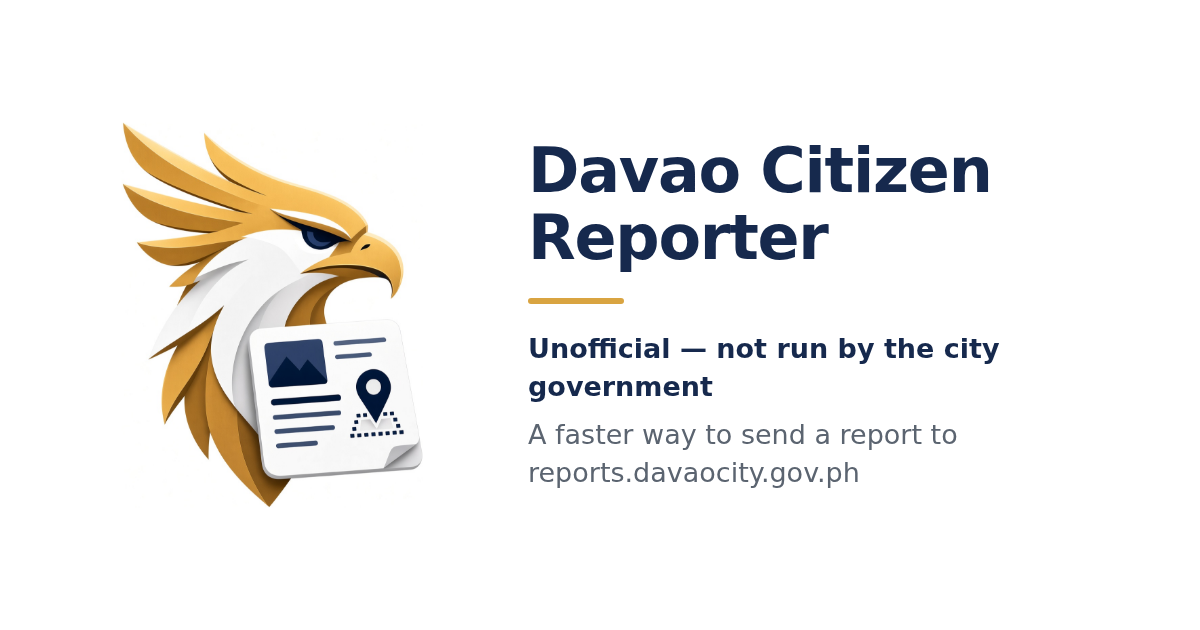
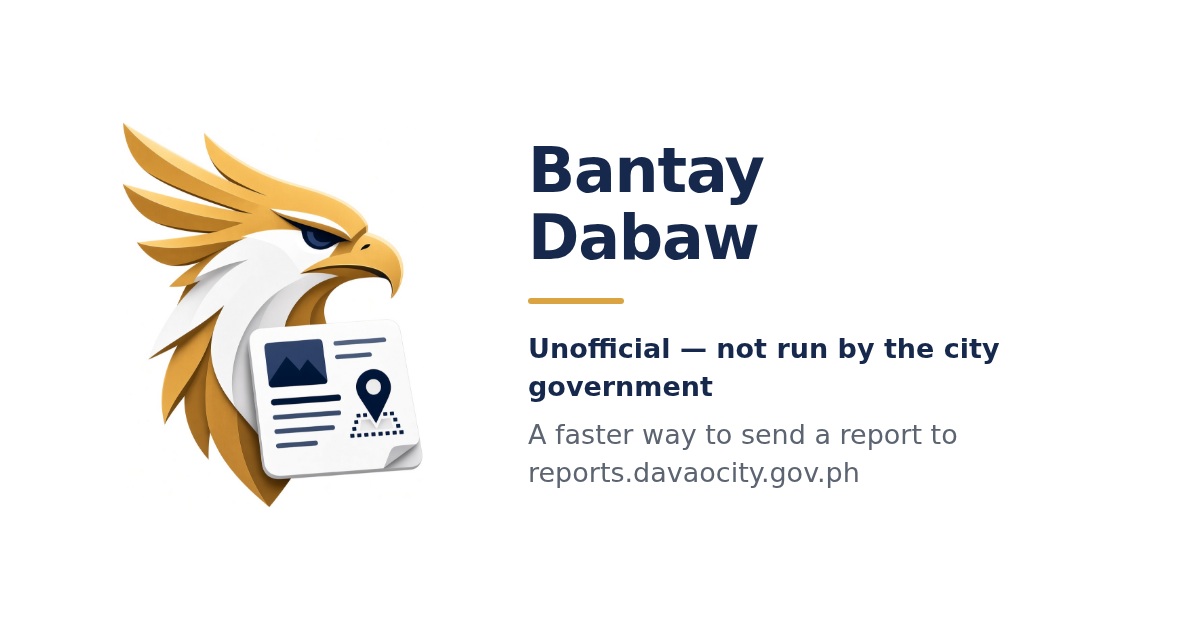
feat(brand): rename the app to Bantay Dabaw
"Davao Citizen Reporter" shared two words with the city's own "Davao
City Reports App", and the pattern read as a sibling product rather
than an unofficial one. A Cebuano name nobody could mistake for a
government office does the work the disclaimer should not have to do
alone.

The hostname, the repo slug and every storage key stay as they are.
The keys are per-origin, so renaming them would strand the reports a
citizen kept on their phone when the city refused to take them.

Changed region(s): [[0.4317, 0.2111, 0.8325, 0.4222]]

diff --git a/frontend/index.html b/frontend/index.html
@@ -8,13 +8,13 @@
     <link rel="icon" type="image/png" sizes="16x16" href="/favicon-16.png" />
     <link rel="apple-touch-icon" href="/apple-touch-icon.png" />
     <link rel="manifest" href="/site.webmanifest" />
-    <title>Davao Citizen Reporter</title>
+    <title>Bantay Dabaw</title>
     <meta
       name="description"
       content="An unofficial, faster way to report a city issue to reports.davaocity.gov.ph."
     />
     <meta property="og:type" content="website" />
-    <meta property="og:title" content="Davao Citizen Reporter" />
+    <meta property="og:title" content="Bantay Dabaw" />
     <meta
       property="og:description"
       content="An unofficial, faster way to report a city issue to reports.davaocity.gov.ph."
@@ -24,7 +24,7 @@
     <meta property="og:image:height" content="630" />
     <meta
       property="og:image:alt"
-      content="Davao Citizen Reporter — unofficial, not run by the city government."
+      content="Bantay Dabaw — unofficial, not run by the city government."
     />
     <meta name="twitter:card" content="summary_large_image" />
   </head>

diff --git a/frontend/src/app.tsx b/frontend/src/app.tsx
@@ -1869,7 +1869,7 @@ function Header({ onDisclaimer }: { onDisclaimer: () => void }) {
 
   return (
     <header>
-      <h1>Davao Citizen Reporter</h1>
+      <h1>Bantay Dabaw</h1>
       {/*
         On the page itself, not only inside the notice below. Whoever needs
         this is the last person who would open an optional pop-up to find
